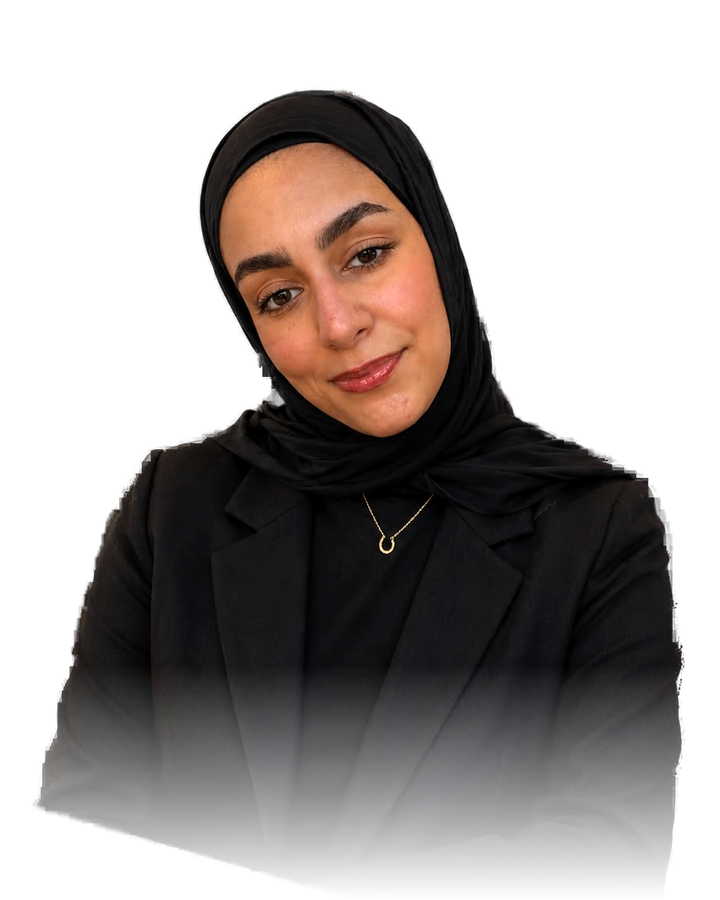
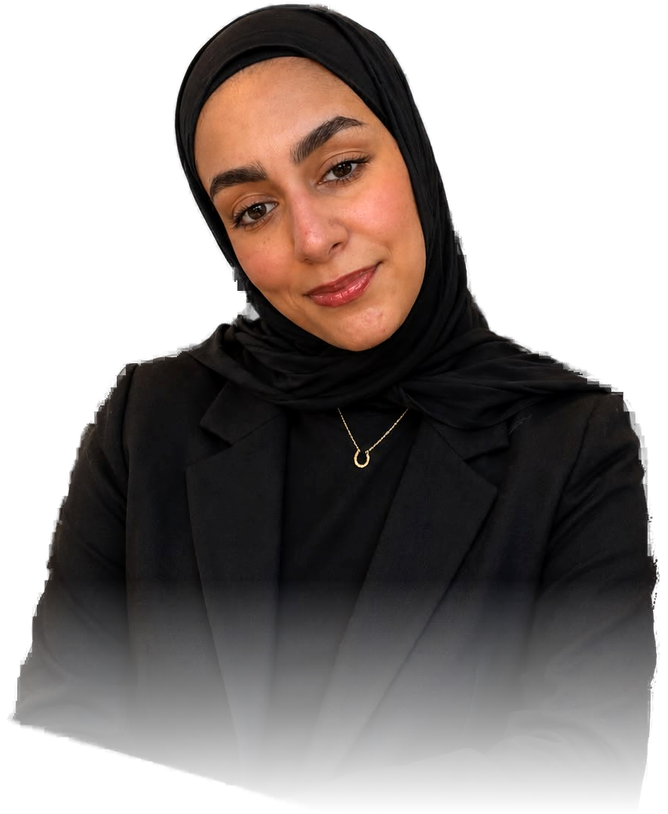
Trim the empty space above the portrait so it lines up with the bio
The cut-out carried ~86px of transparent padding above her head, which
pushed the visible photo below the text. Cropping to the alpha bounds
aligns the top of the portrait with the first line of the About text.

Claude-Session: https://claude.ai/code/session_01FqdwQd9FXVu1dTrsUeRosE

diff --git a/components/About.tsx b/components/About.tsx
@@ -70,8 +70,8 @@ export default function About({ lang }: AboutProps) {
               <Image
                 src="/fatima-portrait-cutout.png"
                 alt={personalInfo.name}
-                width={720}
-                height={900}
+                width={668}
+                height={814}
                 sizes="(max-width: 768px) 230px, 280px"
                 className="w-full h-auto"
               />
